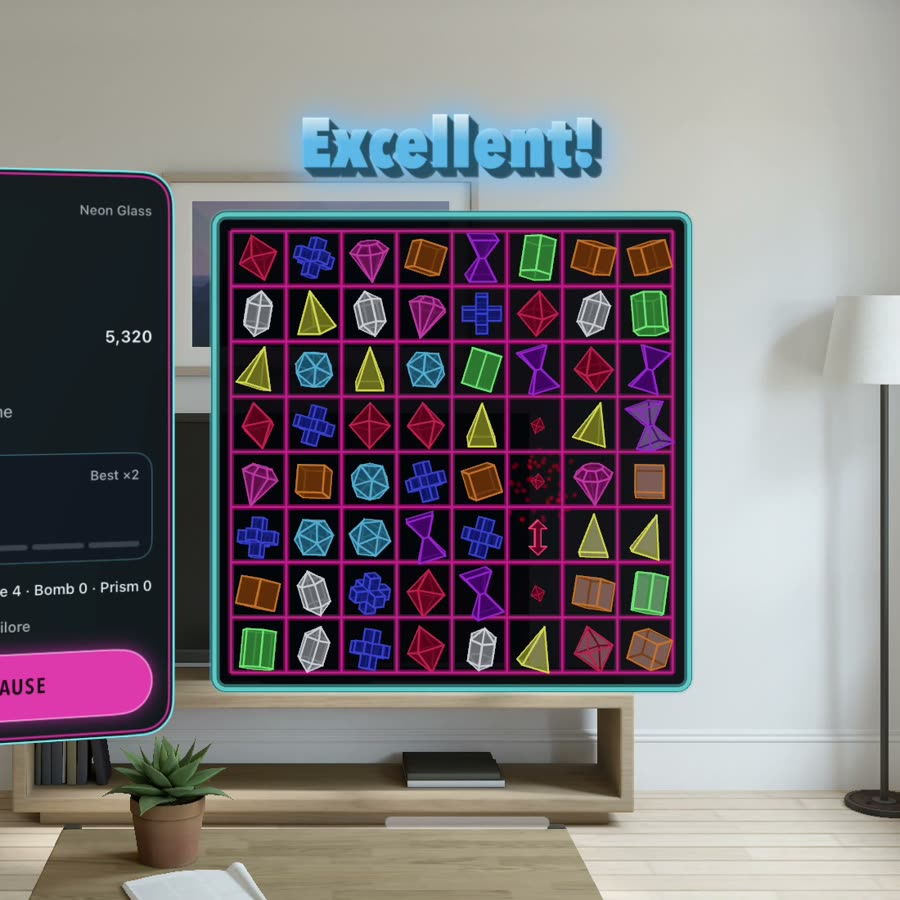
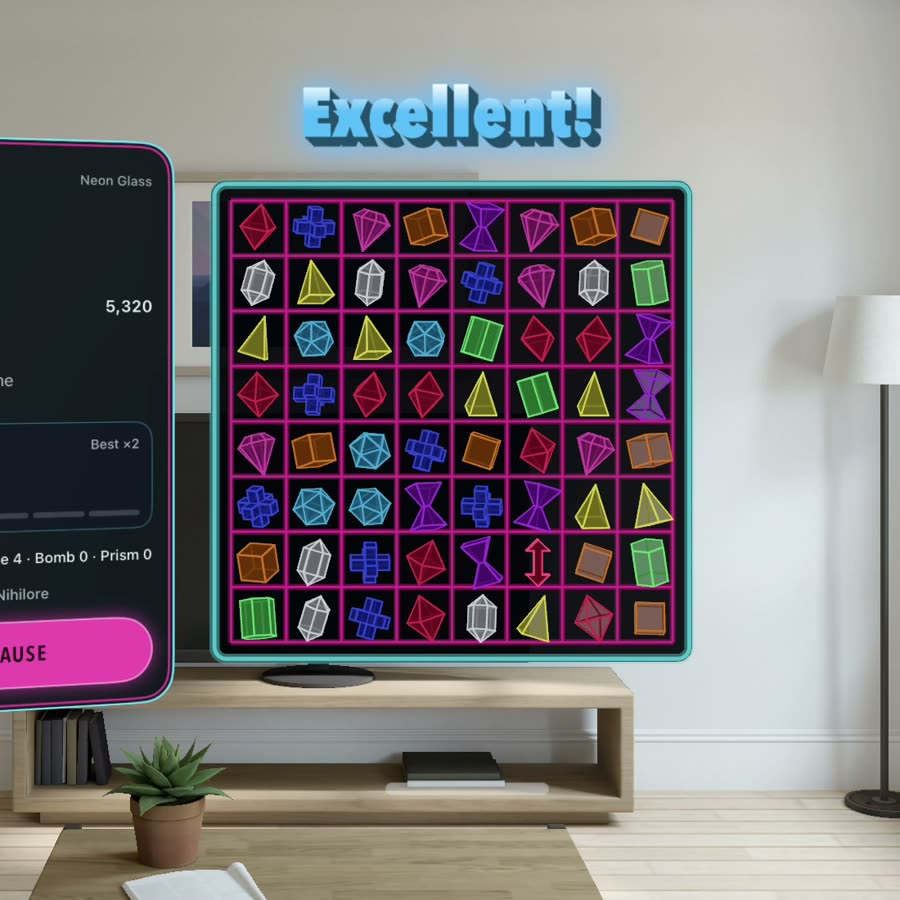
Hero: straight frame with the board centred, a settled score, caption below

diff --git a/index.html b/index.html
@@ -56,12 +56,11 @@ p{margin:0}
 .hero .lede{margin-bottom:28px}
 .ctas{display:flex;flex-wrap:wrap;gap:14px;align-items:center}
 .platform{margin-top:26px;font-family:var(--display);font-weight:600;letter-spacing:.2em;text-transform:uppercase;font-size:14px;color:var(--muted)}
-.frame{position:relative;clip-path:polygon(7% 0,100% 0,93% 100%,0 100%);}
-.frame img{width:100%;height:auto;aspect-ratio:16/9;object-fit:cover}
+.frame{position:relative;border-radius:20px;padding:2px;background:linear-gradient(110deg,var(--pink),var(--cyan))}
+.frame::before{content:"";position:absolute;inset:-8px;z-index:-1;border-radius:28px;background:linear-gradient(110deg,var(--pink),var(--cyan));filter:blur(18px);opacity:.5}
+.frame img{width:100%;height:auto;aspect-ratio:16/9;object-fit:cover;border-radius:18px}
 .hero-shot{position:relative}
-.hero-shot::after{content:"";position:absolute;inset:-10px;z-index:-1;clip-path:polygon(7% 0,100% 0,93% 100%,0 100%);
-  background:linear-gradient(110deg,var(--pink),var(--cyan));filter:blur(18px);opacity:.55}
-.hero-shot figcaption{margin-top:12px;font-size:14px;color:var(--muted);text-align:right}
+.hero-shot figcaption{margin-top:18px;font-size:15px;color:var(--muted);text-align:center}
 
 /* Gem row */
 .gems{display:flex;justify-content:space-between;gap:8px;border-block:1px solid var(--line);padding-block:22px}
